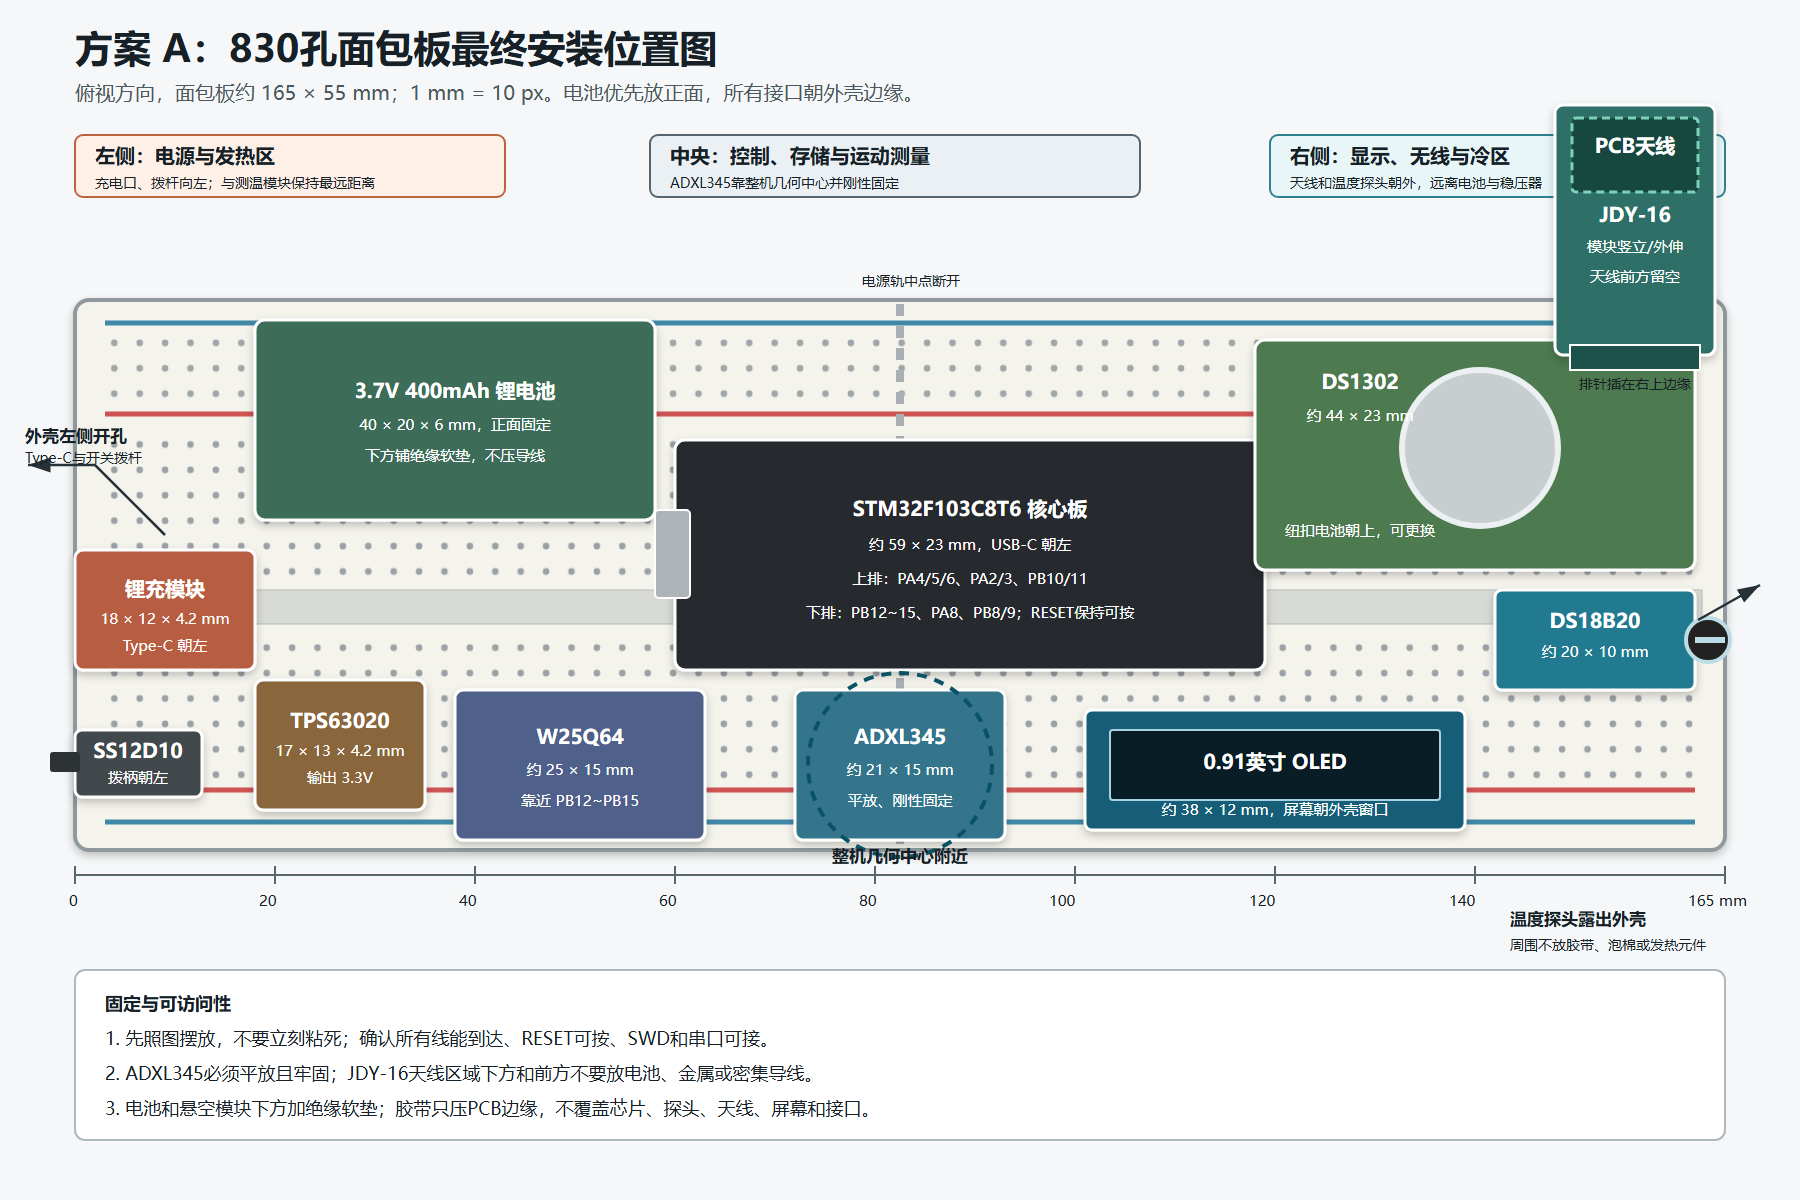
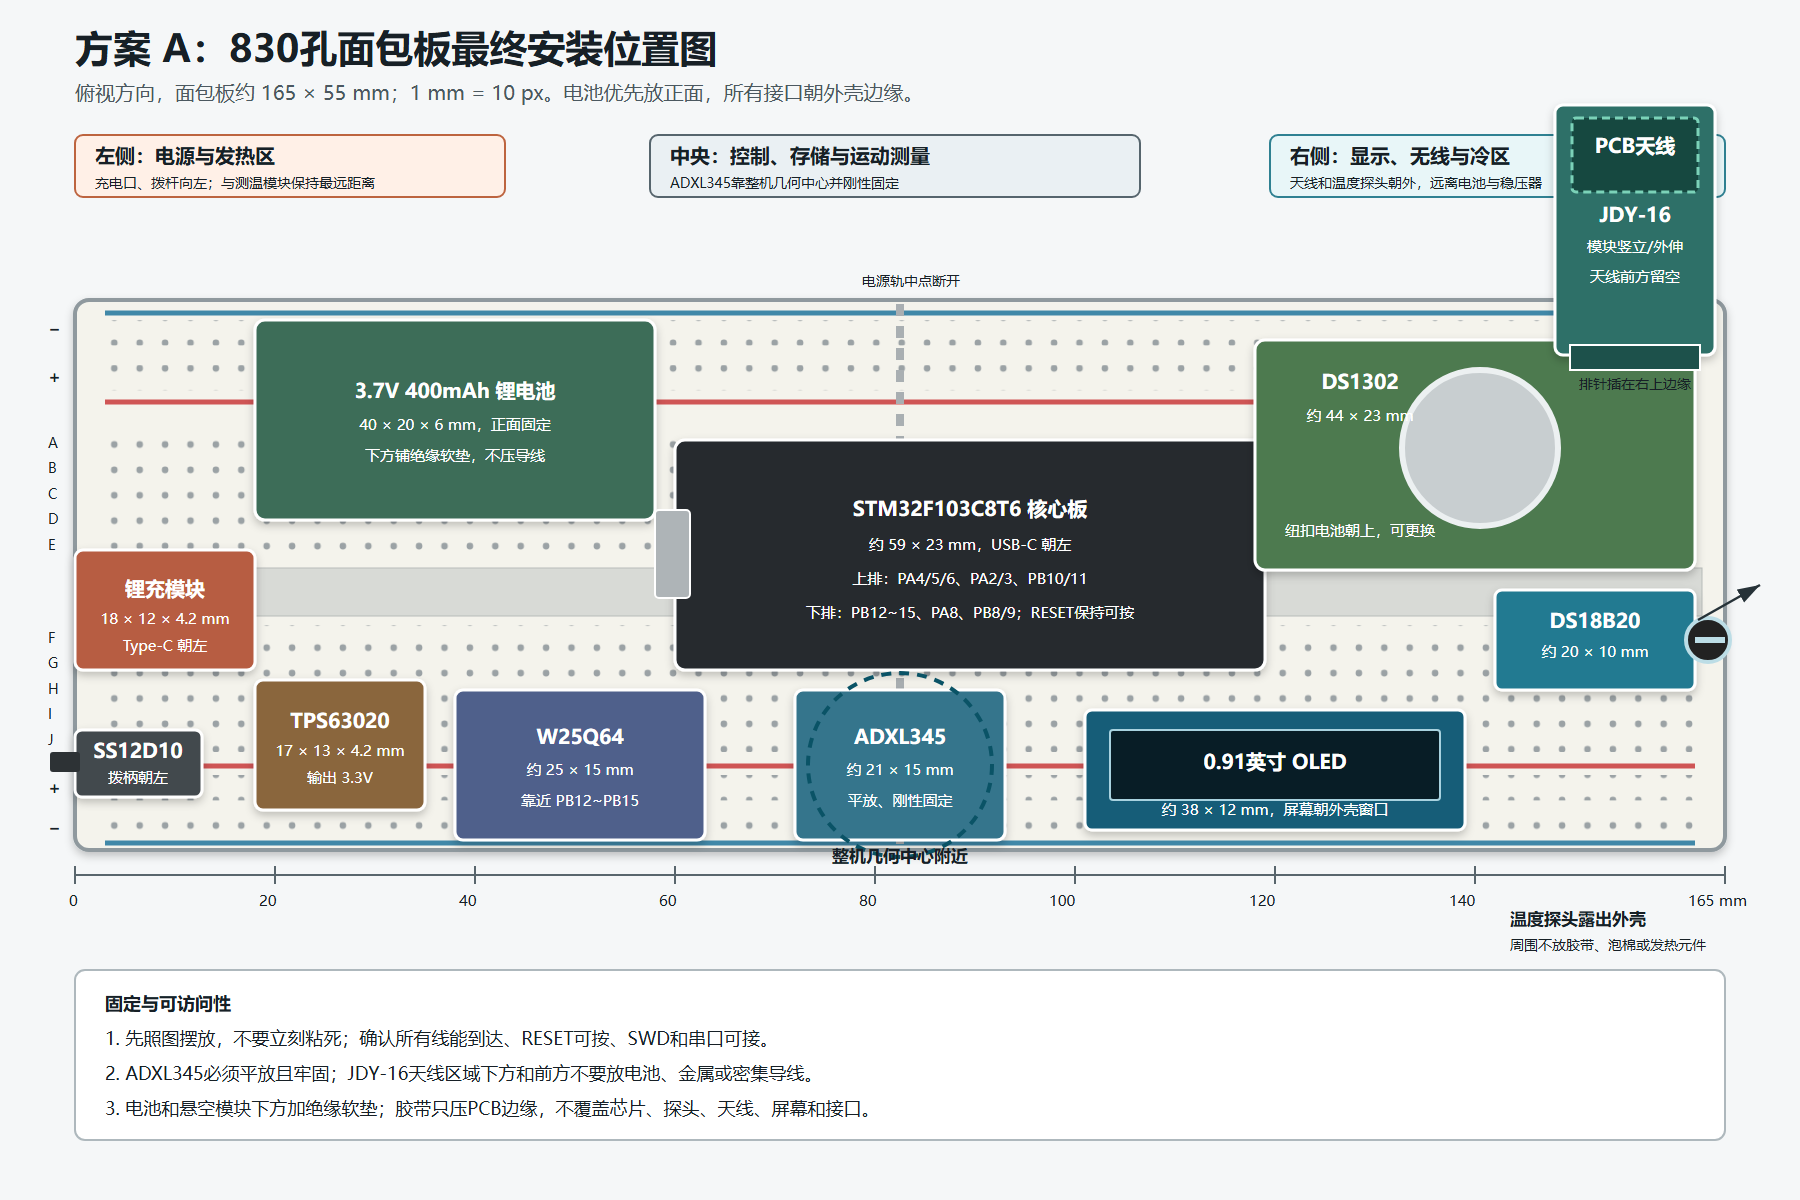
Correct 830-hole breadboard row layout

diff --git a/docs/development-log.md b/docs/development-log.md
@@ -383,3 +383,4 @@
 - Signal design: rechecked against `project 1.ioc`; no firmware or CubeMX changes were required. The diagrams retain PA8, PB8/PB9, PB10/PB11, PB12-PB15, PA4-PA6, and PA2/PA3 assignments.
 - Safety boundary: the charger pad order remains conditional until the received PCB silkscreen is visible. The diagram intentionally does not guess B/OUT pad locations from a product photograph.
 - Validation: rendered all four SVG files with headless Edge at their native 1800-pixel width and visually checked Chinese text contrast, clipping, module overlap, signal direction, power polarity, and staged test criteria.
+- Drawing correction after physical-board review: replaced the generic continuous dot grid with the real 830-hole structure: top and bottom `+/-` power-rail rows, five `A-E` terminal rows, the center trench, and five `F-J` terminal rows. The power diagram now labels all four physical rail rows explicitly; module placement and firmware pin assignments are unchanged.
